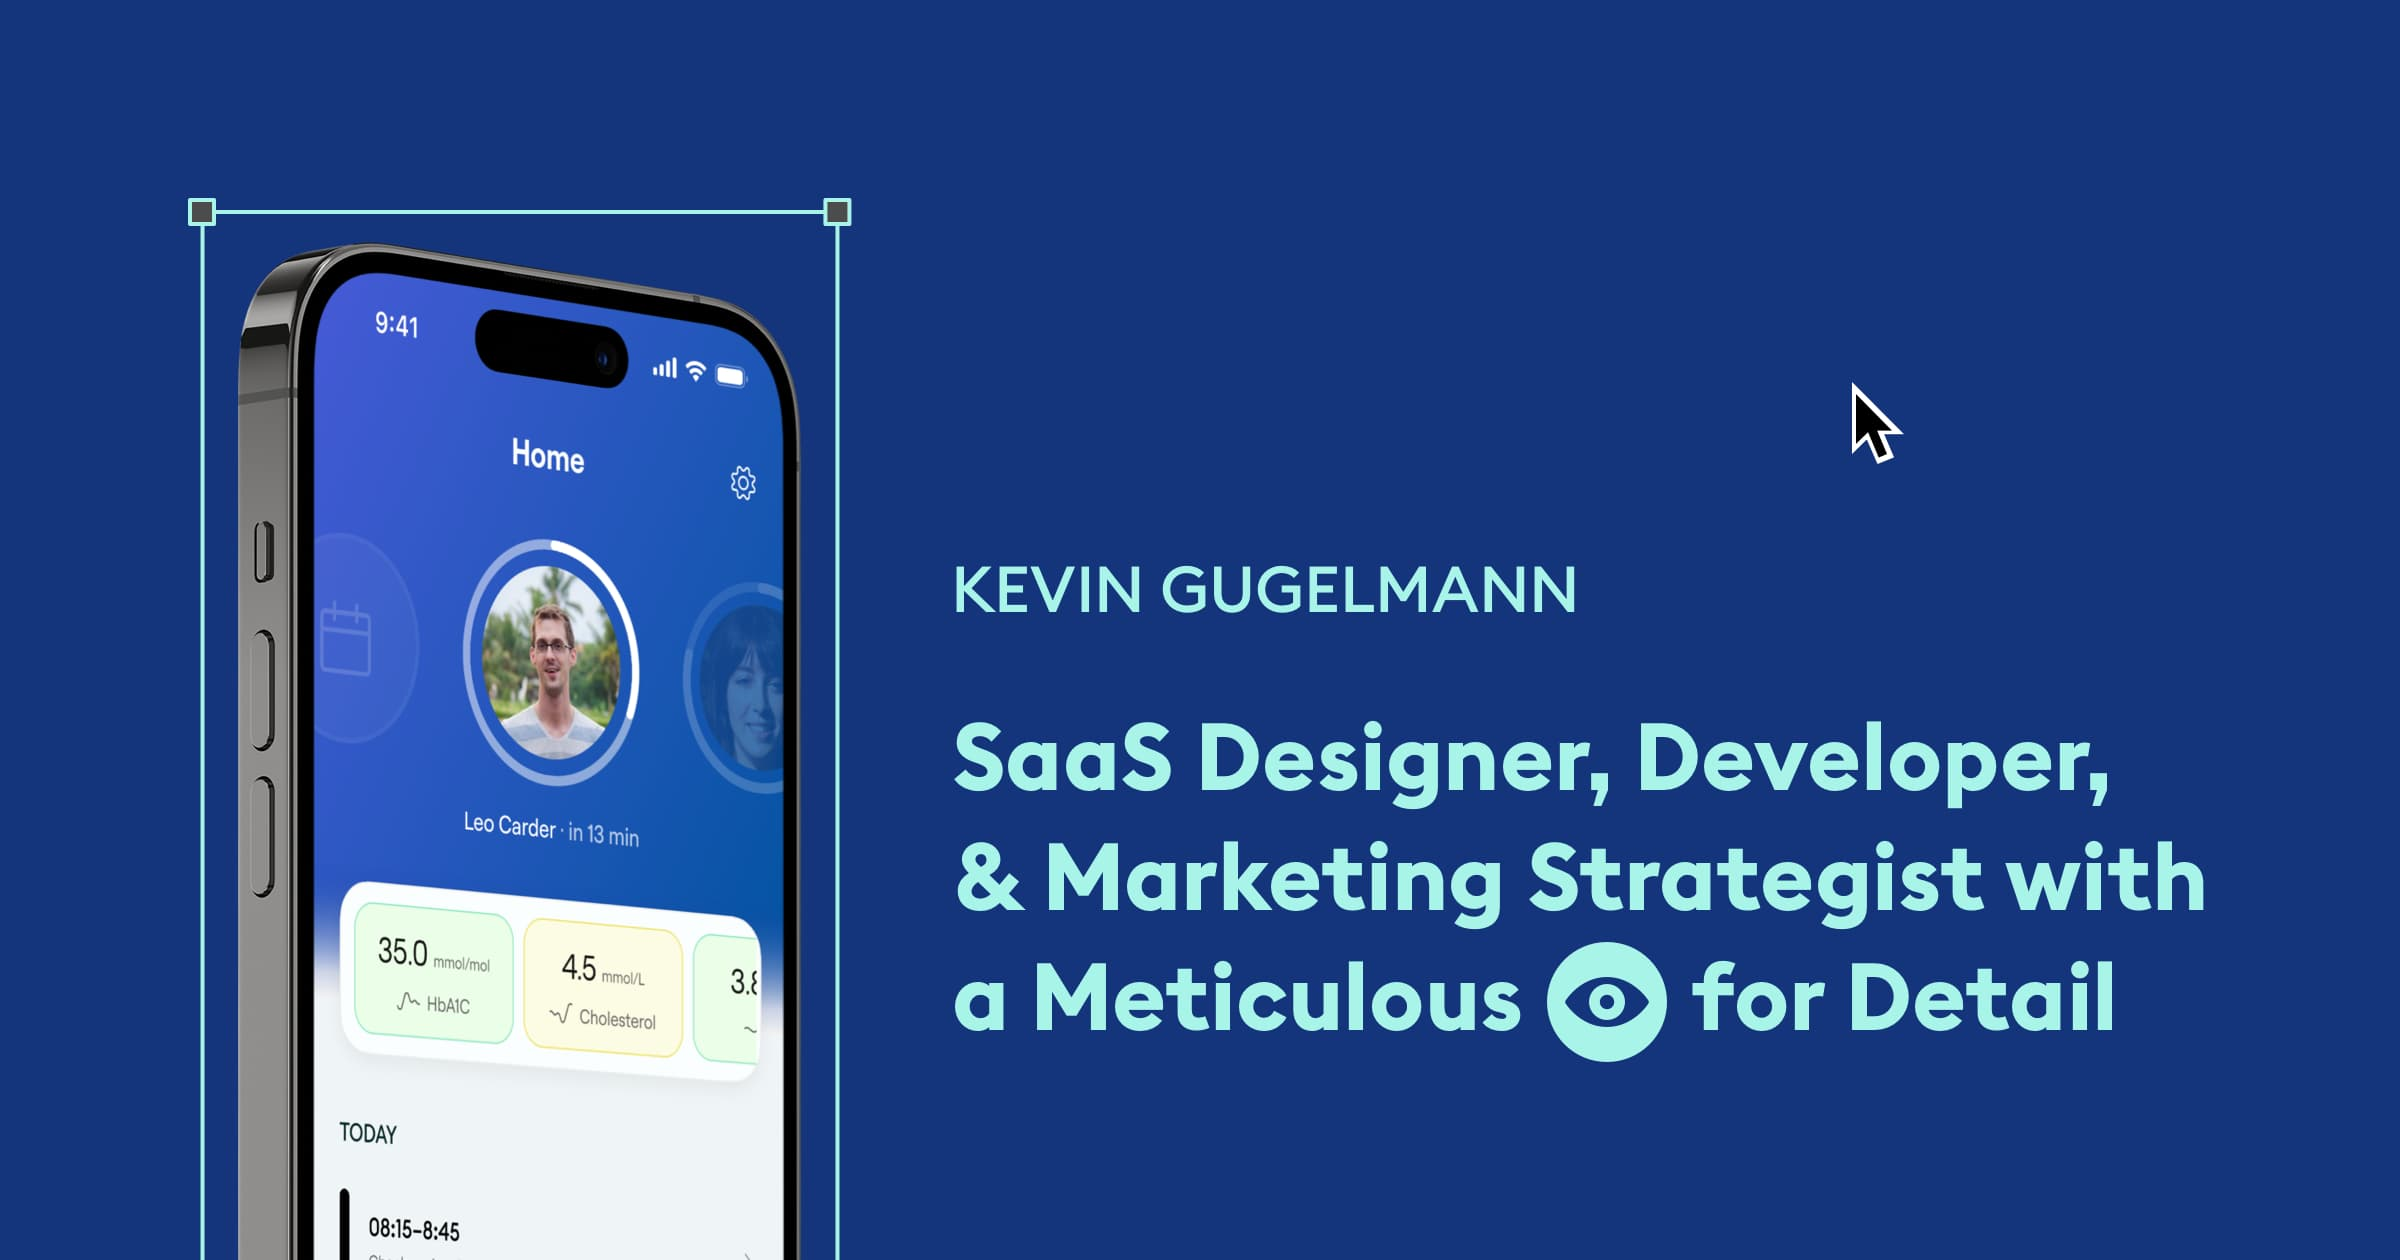
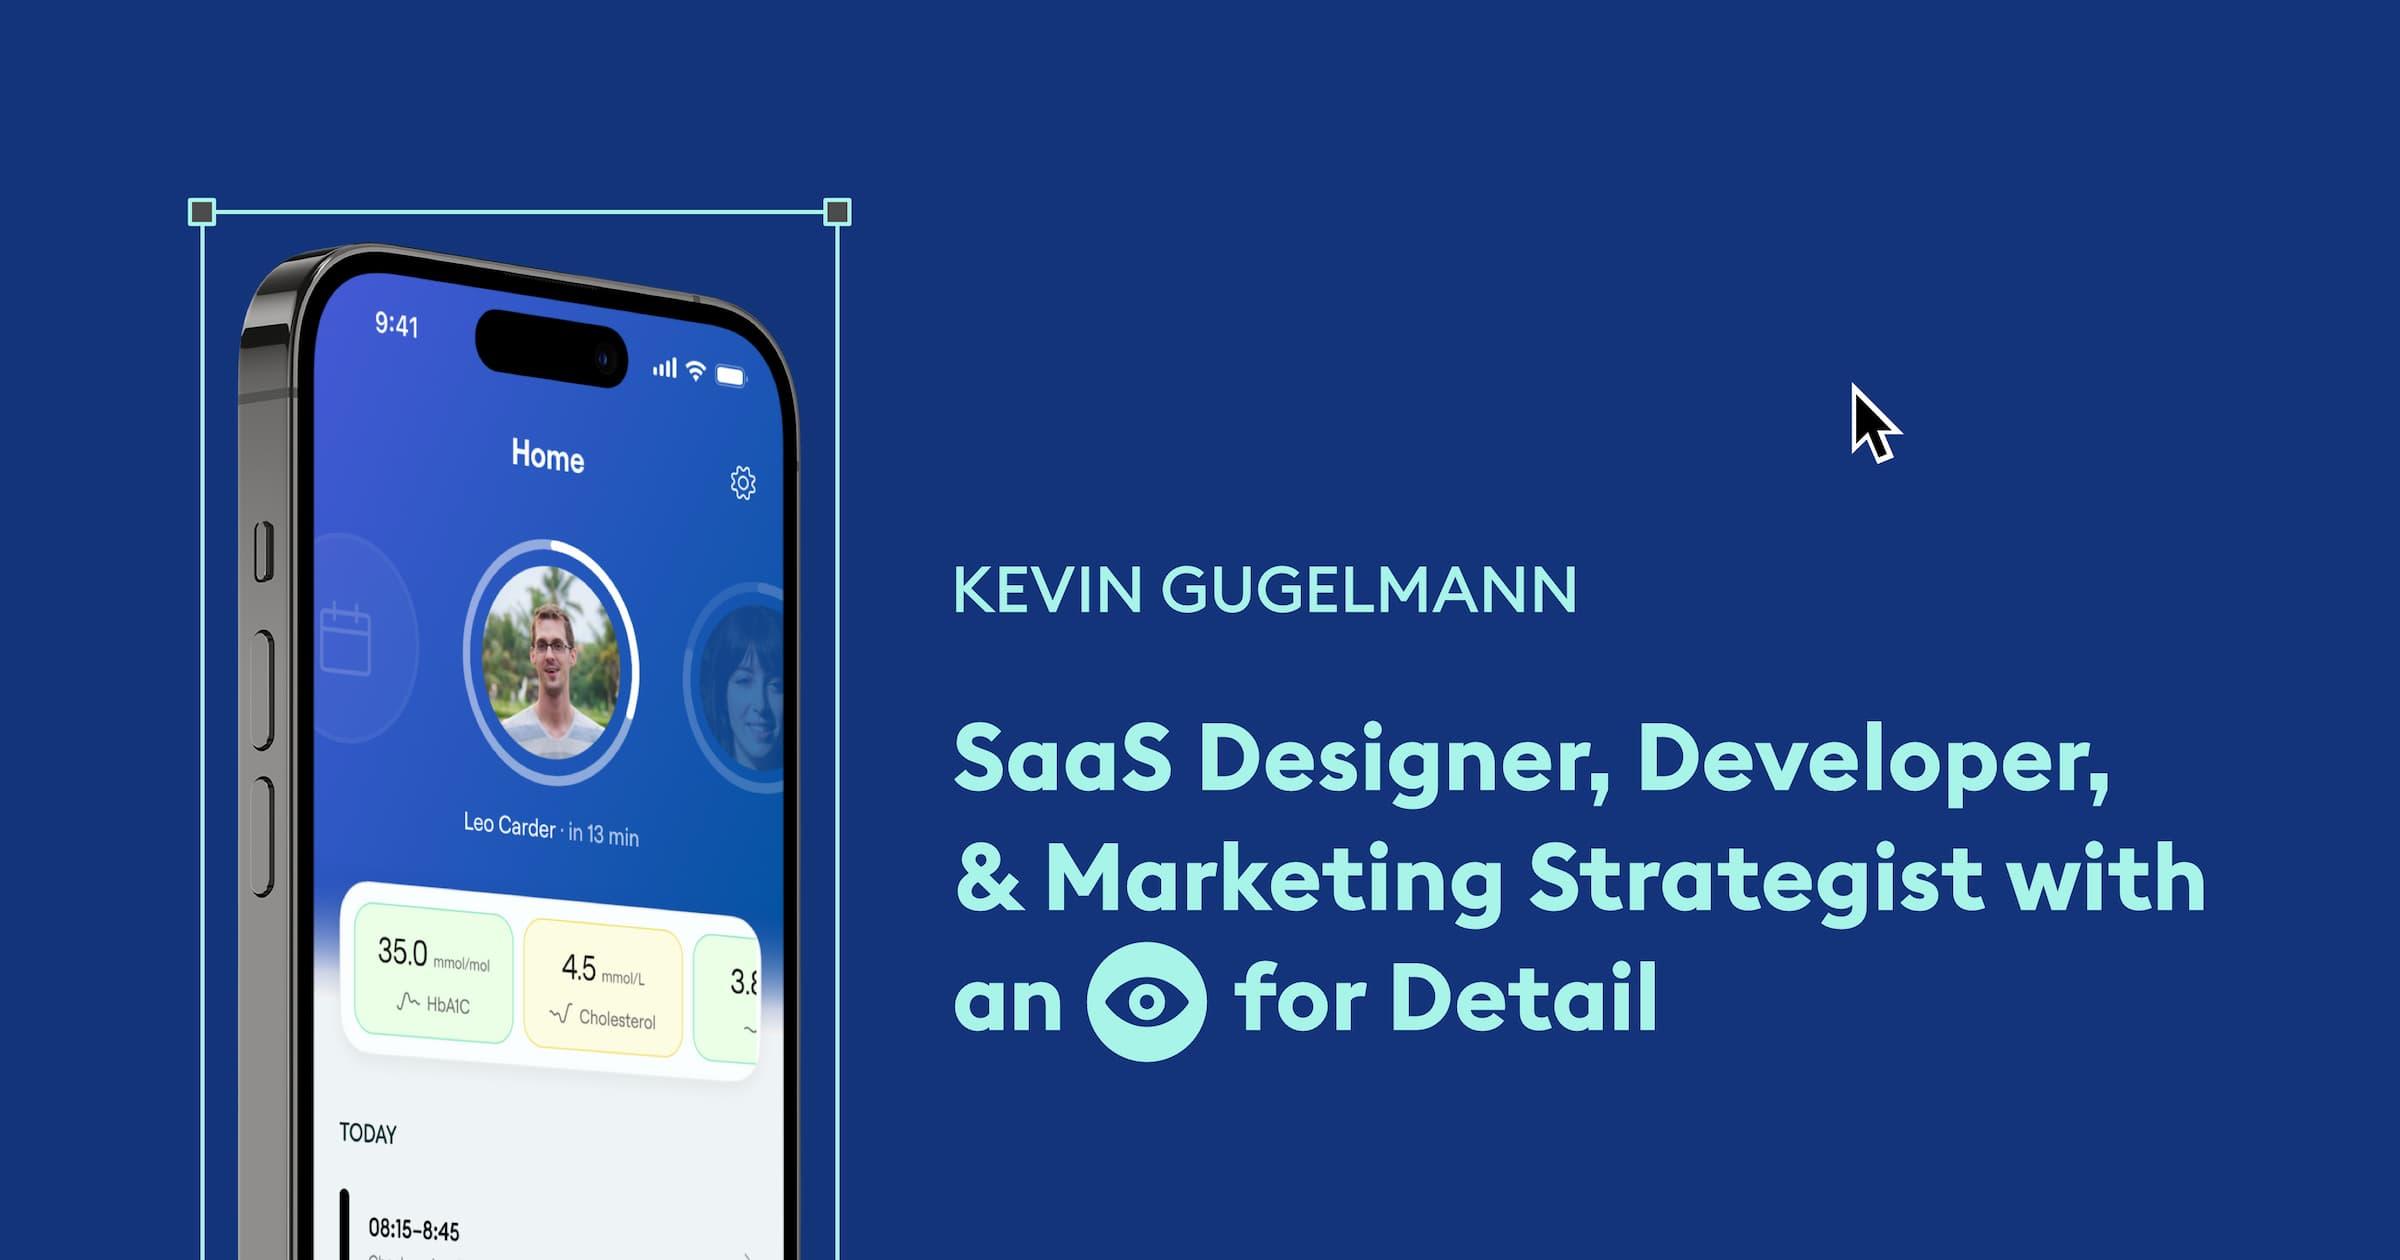
Changes from 2023-09-12

diff --git a/src/routes/+page.svelte b/src/routes/+page.svelte
@@ -36,7 +36,7 @@
   // Link previews
   import linkPreviewSrc from "$lib/images/portfolio-preview.jpg";
   const pageTitle =
-    "Kevin Gugelmann | SaaS Designer, Developer, & Marketing Strategist with a Meticulous Eye for Detail";
+    "Kevin Gugelmann | SaaS Designer, Developer, & Marketing Strategist with an Eye for Detail";
   const pageDescription =
     "Remarkably meticulous SaaS designer, developer, and marketing strategist with 7+ years of cross-industry experience, studying CS & Economics at UChicago.";
   const pageUrl = "https://kevingugelmann.com";

diff --git a/src/lib/views/HeroSection.svelte b/src/lib/views/HeroSection.svelte
@@ -134,8 +134,8 @@
           class="text-glacial-blue
                 mb-8 xl:mb-12"
         >
-          SaaS Designer, Developer, & Marketing Strategist with a Meticulous Eye
-          for Detail
+          SaaS Designer, Developer, & Marketing Strategist with an Eye for
+          Detail
         </h1>
         <ul>
           <li>
